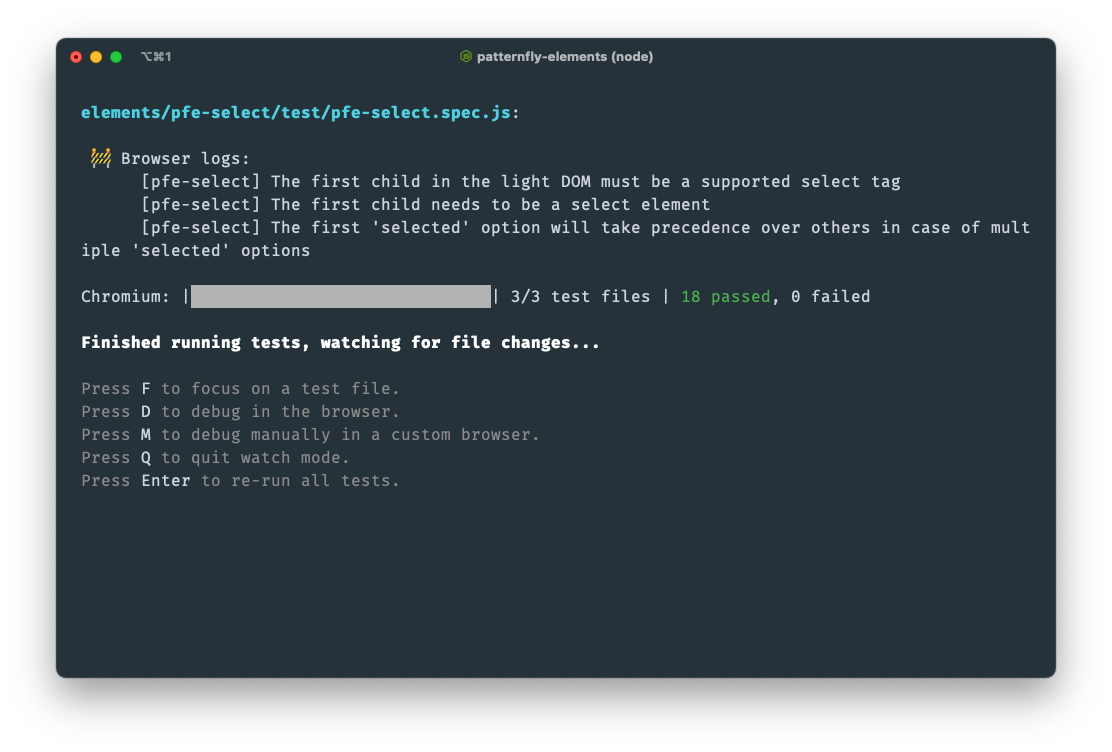
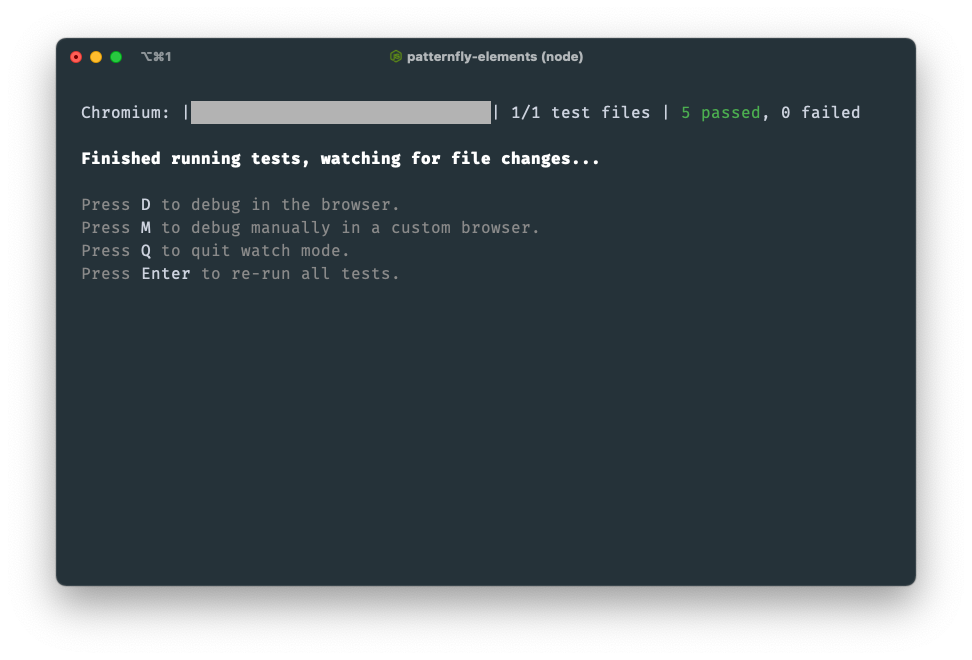
US293986 Update docs based on feedback

diff --git a/docs/docs/develop/testing.md b/docs/docs/develop/testing.md
@@ -25,12 +25,6 @@ If you followed the [Prerequisites](/docs/develop/setup/#prerequisites) in [Setu
 
 ### Test Setup
 
-If you used the `npm run new` command, you should already have a `pfe-cool-element.spec.js` file. If not, add a test file to `pfe-cool-element` using this helper:
-
-```bash
-npm run new:test -- pfe-cool-element
-```
-
 In the root of the element, there's a `/test` directory with an `pfe-cool-element.spec.js` file. This file will be where we add all of our tests.
 
 Let's add four stubs for the functionality we need to test in our test file:
@@ -223,16 +217,12 @@ shadowRoot.querySelector('slot').assignedNodes()[0].textContent.trim();
 Lastly, we can run the test command below to see how we did. You can focus on this specific test so you're only running the tests for `pfe-cool-element`.
 
 ```bash
-npm run test:watch
+npm run test:watch --element="pfe-cool-element"
 ```
 
 This command starts up web test runner and allows us to debug our test in the browser.
 
 ![npm test command](/images/develop/develop-testing-first-pass.png)
-
-You can narrow down the test files to `pfe-cool-element` but hitting the `F` key to focus the tests.
-
-![Focus an individual test using "F"](/images/develop/develop-testing-focus.png)
 
 Debugging the test in the browser should give you the following:
 

diff --git a/docs/docs/develop/setup.md b/docs/docs/develop/setup.md
@@ -120,6 +120,8 @@ From the project's root directory, run the test command `npm run test:watch` and
 npm run test:watch
 ```
 
+> Migrating to Web Test Runner? There's [a generator that can help](#migrate-from-web-component-tester-to-web-test-runner).
+
 You can also run a tests on one or many elements using:
 
 ```bash
@@ -148,6 +150,14 @@ npm run test:build:watch
 
 # Build specific elements then run those tests in "watch" mode.
 npm run test:build:watch --element="pfe-select"
+```
+
+### Migrate from Web Component Tester to Web Test Runner
+
+Use the following command to add a test file (`[element-name].spec.js`) to an existing element:
+
+```bash
+npm run new:test -- [element-name]
 ```
 
 ### Legacy tests ([Web Component Tester](https://github.com/Polymer/web-component-tester))
